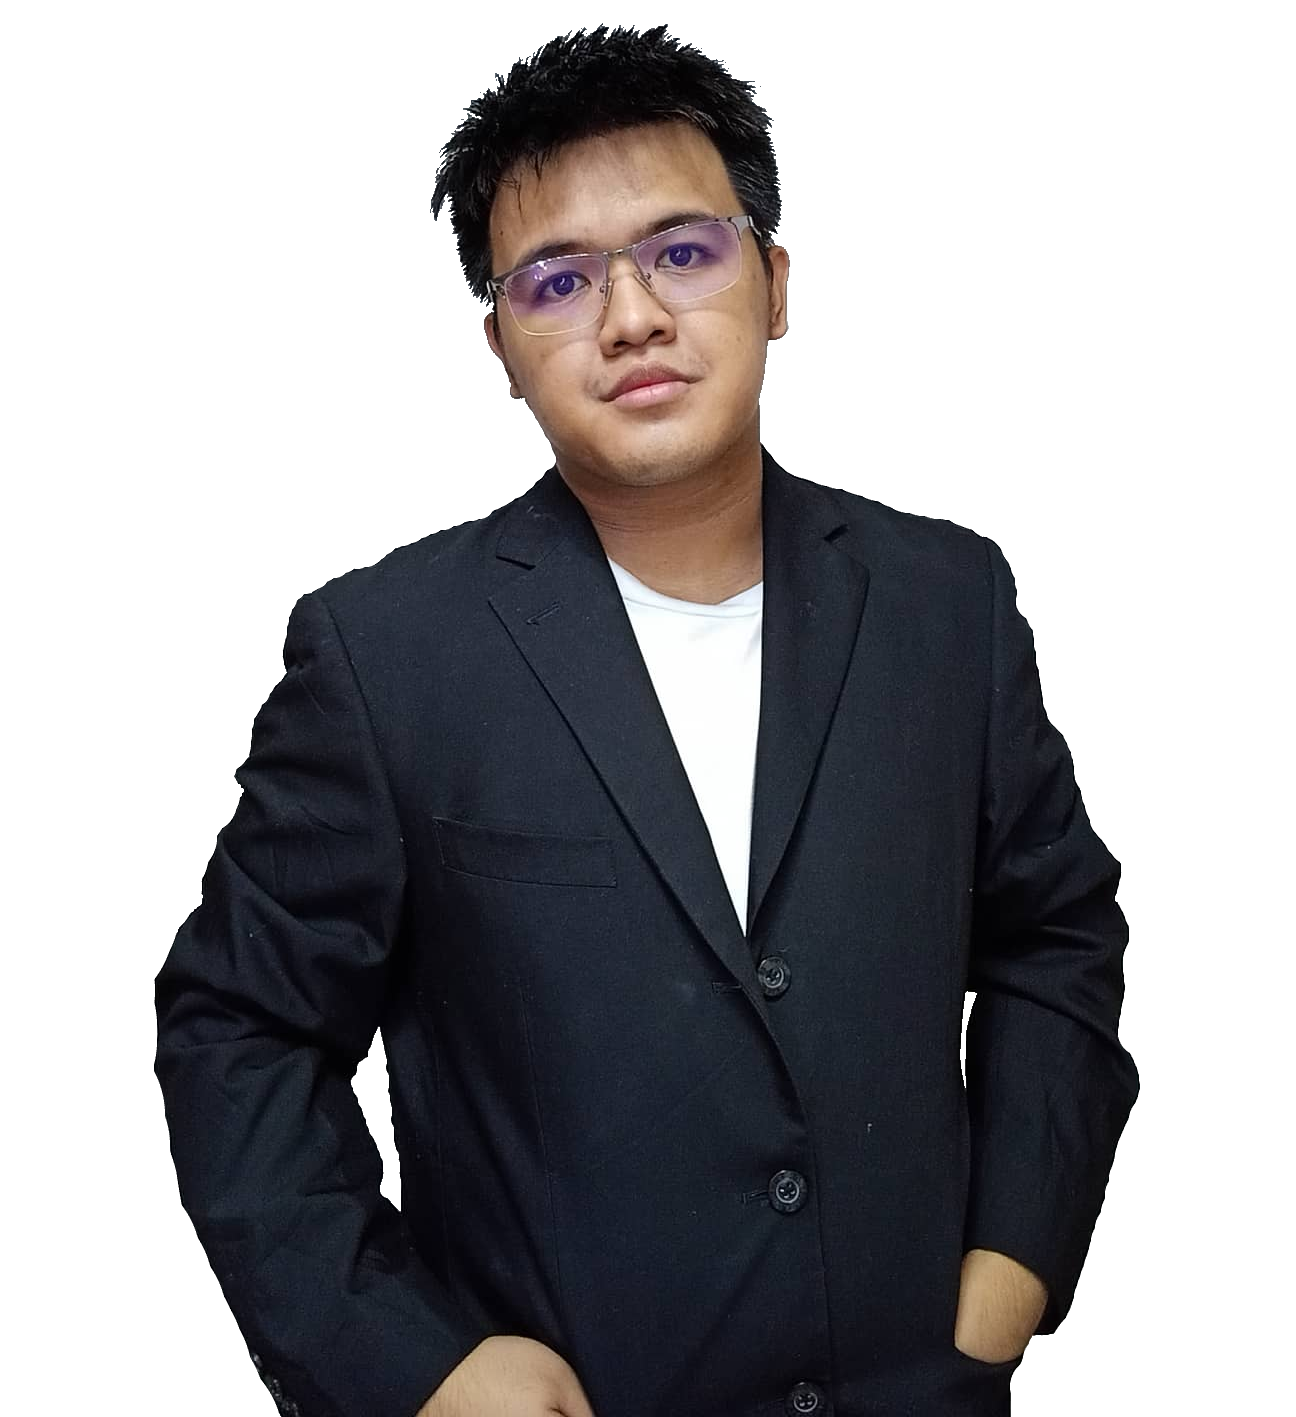
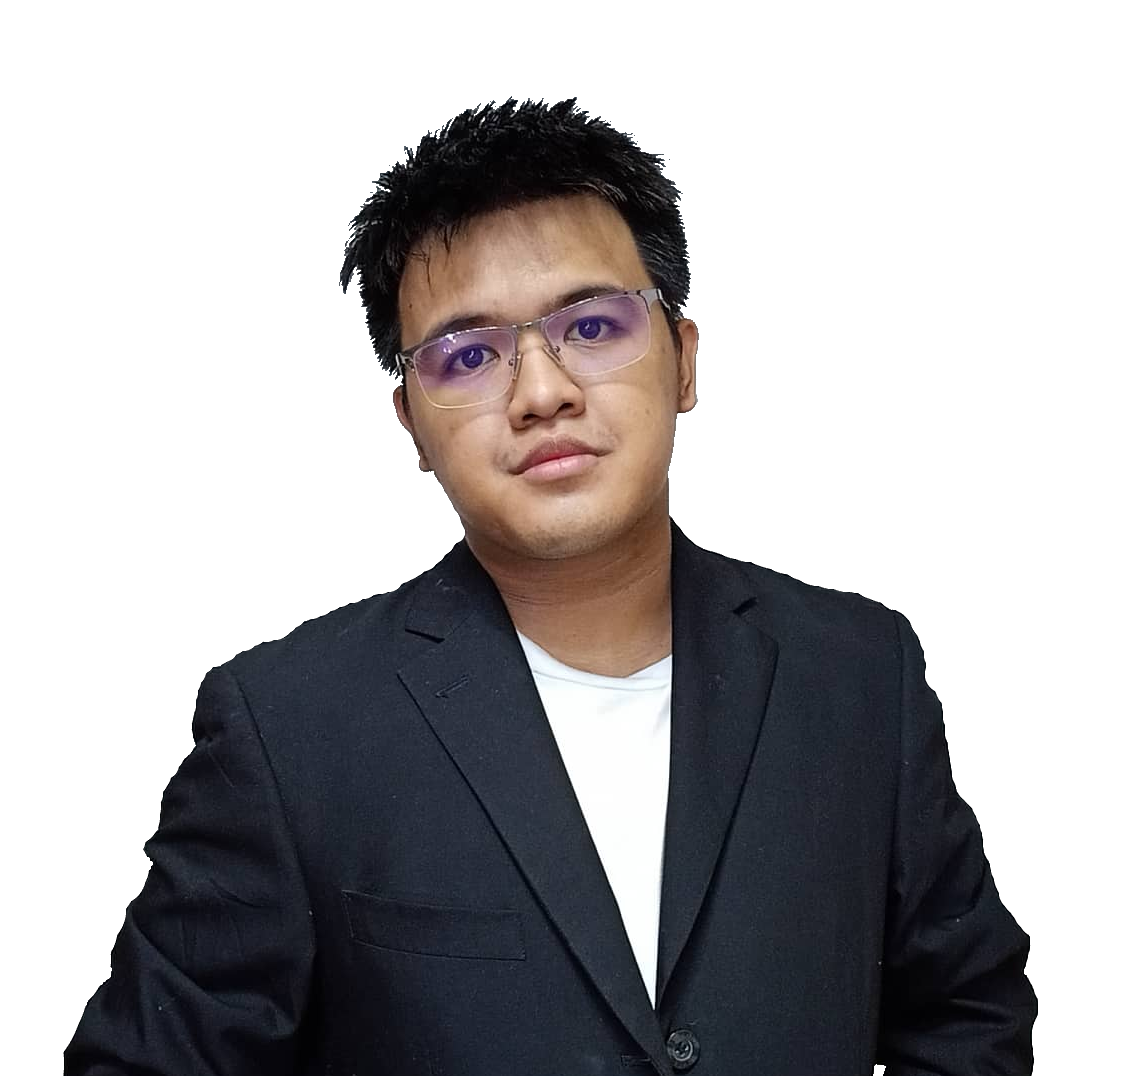
colo changing

diff --git a/index.html b/index.html
@@ -131,15 +131,15 @@
 
             <div class="home__img">
               <image
-                    class=""
+                    class="back"
                     
-                    src="assets/img/profile.png"
+                    src="assets/img/hacker-profile.png"
                   ></image>
             </div>
 
             <div class="home__data">
               <h1 class="home__title">Hi, I am <span class="title-highlight">Mark Eugene</span></h1>
-              <h3 class="home__subtitle">Web Developer</h3>
+              <h3 class="home__subtitle">Developer</h3>
               <p class="home__description">
                 A developer who is eager to learn and
                 improve my skills, solution-driven
@@ -194,6 +194,106 @@ and from then I learned a lot, going up to college I learned C++/C# and other la
             >
               Download Resume<i class="uil uil-download-alt button__icon"></i
             ></a>
+          </div>
+        </div>
+      </div>
+    </section>
+
+     <!--==================== QUALIFICATOIN ====================-->
+
+     <section class="qualification section">
+      <h2 class="section__title">Qualification</h2>
+      <span class="section__subtitle">My personal journey</span>
+
+      <div class="qualification__container container">
+        <div class="qualification__tabs">
+          <div
+            class="qualification__button button--flex qualification__active"
+            data-target="#work"
+          >
+            <i class="uil uil-briefcase-alt qualification__icon"> </i> Work
+          </div>
+
+          <div
+            class="qualification__button button--flex"
+            data-target="#education"
+          >
+            <i class="uil uil-graduation-cap qualification__icon"> </i>
+            Education
+          </div>
+        </div>
+
+        <div class="qualification__sections">
+          <!--==================== QUALIFICATOIN CONTENT 1====================-->
+          <div
+            class="qualification__content qualification__active"
+            data-content
+            id="work"
+          >
+            <!--==================== QUALIFICATOIN 1====================-->
+            <div class="qualification__data">
+              <div>
+                <h3 class="qualification__title">Fullstack Developer</h3>
+                <span class="qualification__subtitle "><a href="https://trbexpressinc.net/acquisition">TRB Express Inc</a></span>
+                <div class="qualification__calender">
+                  <i class="uil uil-calendar-alt"></i> JULY 2022-JAN 2023
+                </div>
+              </div>
+
+              <div>
+                <span class="qualification__rounder"></span>
+                <span class="qualification__line"></span>
+              </div>
+            </div>
+
+            <!--==================== QUALIFICATOIN 2====================-->
+            <div class="qualification__data">
+              <div></div>
+              <div>
+                <span class="qualification__rounder"></span>
+                <span class="qualification__line"></span>
+              </div>
+              <div>
+                <h3 class="qualification__title">On the Job Training</h3>
+                <span class="qualification__subtitle "><a href="https://clairemontferrond.com/">Clairemont Ferrond</a></span>
+                
+                <div class="qualification__calender">
+                  <i class="uil uil-calendar-alt"></i> NOV 2021-MARCH 2022
+                </div>
+              </div>
+            </div>
+
+         
+
+            <!--==================== QUALIFICATOIN 4====================-->
+            <div class="qualification__data">
+              <div></div>
+              <div>
+                <span class="qualification__rounder"></span>
+                <!-- <span class="qualification__line"></span> -->
+              </div>
+             
+            </div>
+          </div>
+
+          <!--==================== QUALIFICATOIN CONTENT 2====================-->
+          <div class="qualification__content" data-content id="education">
+            <!--==================== QUALIFICATOIN 1====================-->
+            <div class="qualification__data">
+              <div>
+                <h3 class="qualification__title">BS in Information Technology</h3>
+                <span class="qualification__subtitle "><a href="https://au.phinma.edu.ph/">PHINMA Araullo University</a></span>
+                <div class="qualification__calender">
+                  <i class="uil uil-calendar-alt"></i> 2018-2022
+                </div>
+              </div>
+
+              <div>
+                <span class="qualification__rounder"></span>
+                <span class="qualification__line"></span>
+              </div>
+            </div>
+
           </div>
         </div>
       </div>
@@ -322,106 +422,6 @@ and from then I learned a lot, going up to college I learned C++/C# and other la
                 <img class="skills__container-img" src="assets/img/skills/figma.svg" alt="figma">
                 <div class="skills__container-name">Figma</div>
             </div> -->
-      </div>
-    </section>
-
-    <!--==================== QUALIFICATOIN ====================-->
-
-    <section class="qualification section">
-      <h2 class="section__title">Qualification</h2>
-      <span class="section__subtitle">My personal journey</span>
-
-      <div class="qualification__container container">
-        <div class="qualification__tabs">
-          <div
-            class="qualification__button button--flex qualification__active"
-            data-target="#work"
-          >
-            <i class="uil uil-briefcase-alt qualification__icon"> </i> Work
-          </div>
-
-          <div
-            class="qualification__button button--flex"
-            data-target="#education"
-          >
-            <i class="uil uil-graduation-cap qualification__icon"> </i>
-            Education
-          </div>
-        </div>
-
-        <div class="qualification__sections">
-          <!--==================== QUALIFICATOIN CONTENT 1====================-->
-          <div
-            class="qualification__content qualification__active"
-            data-content
-            id="work"
-          >
-            <!--==================== QUALIFICATOIN 1====================-->
-            <div class="qualification__data">
-              <div>
-                <h3 class="qualification__title">Fullstack Developer</h3>
-                <span class="qualification__subtitle "><a href="https://trbexpressinc.net/acquisition">TRB Express Inc</a></span>
-                <div class="qualification__calender">
-                  <i class="uil uil-calendar-alt"></i> JULY 2022-JAN 2023
-                </div>
-              </div>
-
-              <div>
-                <span class="qualification__rounder"></span>
-                <span class="qualification__line"></span>
-              </div>
-            </div>
-
-            <!--==================== QUALIFICATOIN 2====================-->
-            <div class="qualification__data">
-              <div></div>
-              <div>
-                <span class="qualification__rounder"></span>
-                <span class="qualification__line"></span>
-              </div>
-              <div>
-                <h3 class="qualification__title">On the Job Training</h3>
-                <span class="qualification__subtitle "><a href="https://clairemontferrond.com/">Clairemont Ferrond</a></span>
-                
-                <div class="qualification__calender">
-                  <i class="uil uil-calendar-alt"></i> NOV 2021-MARCH 2022
-                </div>
-              </div>
-            </div>
-
-         
-
-            <!--==================== QUALIFICATOIN 4====================-->
-            <div class="qualification__data">
-              <div></div>
-              <div>
-                <span class="qualification__rounder"></span>
-                <!-- <span class="qualification__line"></span> -->
-              </div>
-             
-            </div>
-          </div>
-
-          <!--==================== QUALIFICATOIN CONTENT 2====================-->
-          <div class="qualification__content" data-content id="education">
-            <!--==================== QUALIFICATOIN 1====================-->
-            <div class="qualification__data">
-              <div>
-                <h3 class="qualification__title">BS in Information Technology</h3>
-                <span class="qualification__subtitle "><a href="https://au.phinma.edu.ph/">PHINMA Araullo University</a></span>
-                <div class="qualification__calender">
-                  <i class="uil uil-calendar-alt"></i> 2018-2022
-                </div>
-              </div>
-
-              <div>
-                <span class="qualification__rounder"></span>
-                <span class="qualification__line"></span>
-              </div>
-            </div>
-
-          </div>
-        </div>
       </div>
     </section>
 
@@ -576,9 +576,9 @@ and from then I learned a lot, going up to college I learned C++/C# and other la
       </div>
     </section>
 
-    <!--==================== SERVICES ====================-->
+     <!--==================== SERVICES ====================-->
 
-    <section class="services section" id="services">
+     <section class="services section" id="services">
       <h2 class="section__title">Services</h2>
       <span class="section__subtitle">With the skills I have I am able to do</span>
 
@@ -680,11 +680,9 @@ and from then I learned a lot, going up to college I learned C++/C# and other la
       </div>
     </section>
 
+      <!--==================== Cetificates ====================-->
 
-
-       <!--==================== Cetificates ====================-->
-
-       <section class="Certificate section" id="Cetificate">
+      <div class="" id="Cetificate">
         <h2 class="section__title">Cetificates</h2>
         <span class="section__subtitle">Awards & Academic Certificates</span>
   
@@ -804,7 +802,8 @@ and from then I learned a lot, going up to college I learned C++/C# and other la
           <!-- Add Pagination -->
           <div class="swiper-pagination"></div>
         </div>
-      </section>
+      </div>
+
 
     <!--==================== CONTACT ME ====================-->
 
@@ -885,7 +884,7 @@ and from then I learned a lot, going up to college I learned C++/C# and other la
       <div class="footer__bg">
         <div class="footer__container container grid">
           <div>
-            <h1 class="">MAKKUNII</h1>
+            <h1 class="title-highlight">MAKKUNII</h1>
             <span class="footer__subtitle">Web Developer</span>
           </div>
 
@@ -961,6 +960,16 @@ and from then I learned a lot, going up to college I learned C++/C# and other la
       //       .catch((err) => console.log("service worker not registered", err));
       //   });
       // }
+
+  var r = document.querySelector(':root');
+  var hexArray = ['#f1c84f','#4fa3f1','#d2330b', '#059705' , '#922fe9']
+  var randomColor = hexArray[Math.floor(Math.random() * hexArray.length)];
+  // Set the value of variable --blue to another value (in this case "lightblue")
+  r.style.setProperty('--first-color',randomColor);
+
     </script>
+
+    
+    </style>
   </body>
 </html>

diff --git a/assets/css/styles.css b/assets/css/styles.css
@@ -11,10 +11,11 @@
   --hue-color: 250;
   /*Purple 250 - Green 142 - Blue 230 - Pink 340*/
   /* HSL color mode */
-  --first-color: hsl(var(--hue-color), 69%, 61%);
-  --first-color-second: hsl(var(--hue-color), 69%, 61%);
-  --first-color-alt: hsl(var(--hue-color), 57%, 53%);
-  --first-color-lighter: hsl(var(--hue-color), 92%, 85%);
+  --trans: 0.388;
+  --first-color: #000000;
+  --first-color-second:rgb(0, 0, 0);
+  --first-color-alt:  var(--first-color);
+  --first-color-lighter: var(--first-color);
   --title-color: hsl(var(--hue-color), 8%, 15%);
   --text-color: hsl(var(--hue-color), 8%, 45%);
   --text-color-light: hsl(var(--hue-color), 8%, 65%);
@@ -53,6 +54,11 @@
   --z-modal: 100;
 }
 
+
+.back {
+  background-color: var(--first-color);
+  border-radius: 30% 70% 70% 30% / 30% 30% 70% 70%
+}
 /* Font size for large devices */
 
 @media screen and (min-width: 968px) {
@@ -349,6 +355,7 @@ header {
 
 .home__social-icon:hover {
   color: var(--first-color-alt);
+  opacity: 75%;
 }
 
 .home__blob {
@@ -419,10 +426,13 @@ header {
   padding: 1rem;
   border-radius: 0.5rem;
   font-weight: var(--font-medium);
+  border: 2px solid var(--first-color);
 }
 
 .button:hover {
-  background-color: var(--first-color-alt);
+  background-color: rgba(255, 255, 255, 0);
+  border: 2px solid var(--first-color-alt);
+  
 }
 
 .button__icon {
@@ -652,6 +662,7 @@ header {
 .services__button {
   cursor: pointer;
   font-size: var(--small-font-size);
+  padding:5px
 }
 
 .services__button:hover .button__icon {
@@ -919,6 +930,7 @@ header {
 }
 .scrollup:hover {
   background-color: var(--first-color-alt);
+
 }
 .scrollup__icon {
   font-size: 1.5rem;

diff --git a/serviceWorker.js b/serviceWorker.js
@@ -1,0 +1,33 @@
+// const staticAnimeshData = "site-cache-v1";
+// const assets = [
+//   //   "/",
+//   "index.html",
+//   "assets/css/styles.css",
+//   "assets/css/swiper-bundle.min.css",
+//   "assets/js/main.js",
+//   "assets/js/swiper-bundle.min.js",
+//   "assets/pdf/manuel_resume.pdf",
+//   "assets/img/blob.svg",
+//   "assets/img/hacker-profile.png",
+//   "assets/img/mt-fuji.jpg",
+//   "assets/img/skills/vue.svg",
+//   "assets/img/skills/javascript.svg",
+//   "assets/img/skills/html.svg",
+//   "assets/img/skills/css.svg",
+// ];
+
+// self.addEventListener("install", (installEvent) => {
+//   installEvent.waitUntil(
+//     caches.open(staticAnimeshData).then((cache) => {
+//       cache.addAll(assets);
+//     })
+//   );
+// });
+
+// self.addEventListener("fetch", (fetchEvent) => {
+//   fetchEvent.respondWith(
+//     caches.match(fetchEvent.request).then((res) => {
+//       return res || fetch(fetchEvent.request);
+//     })
+//   );
+// });
